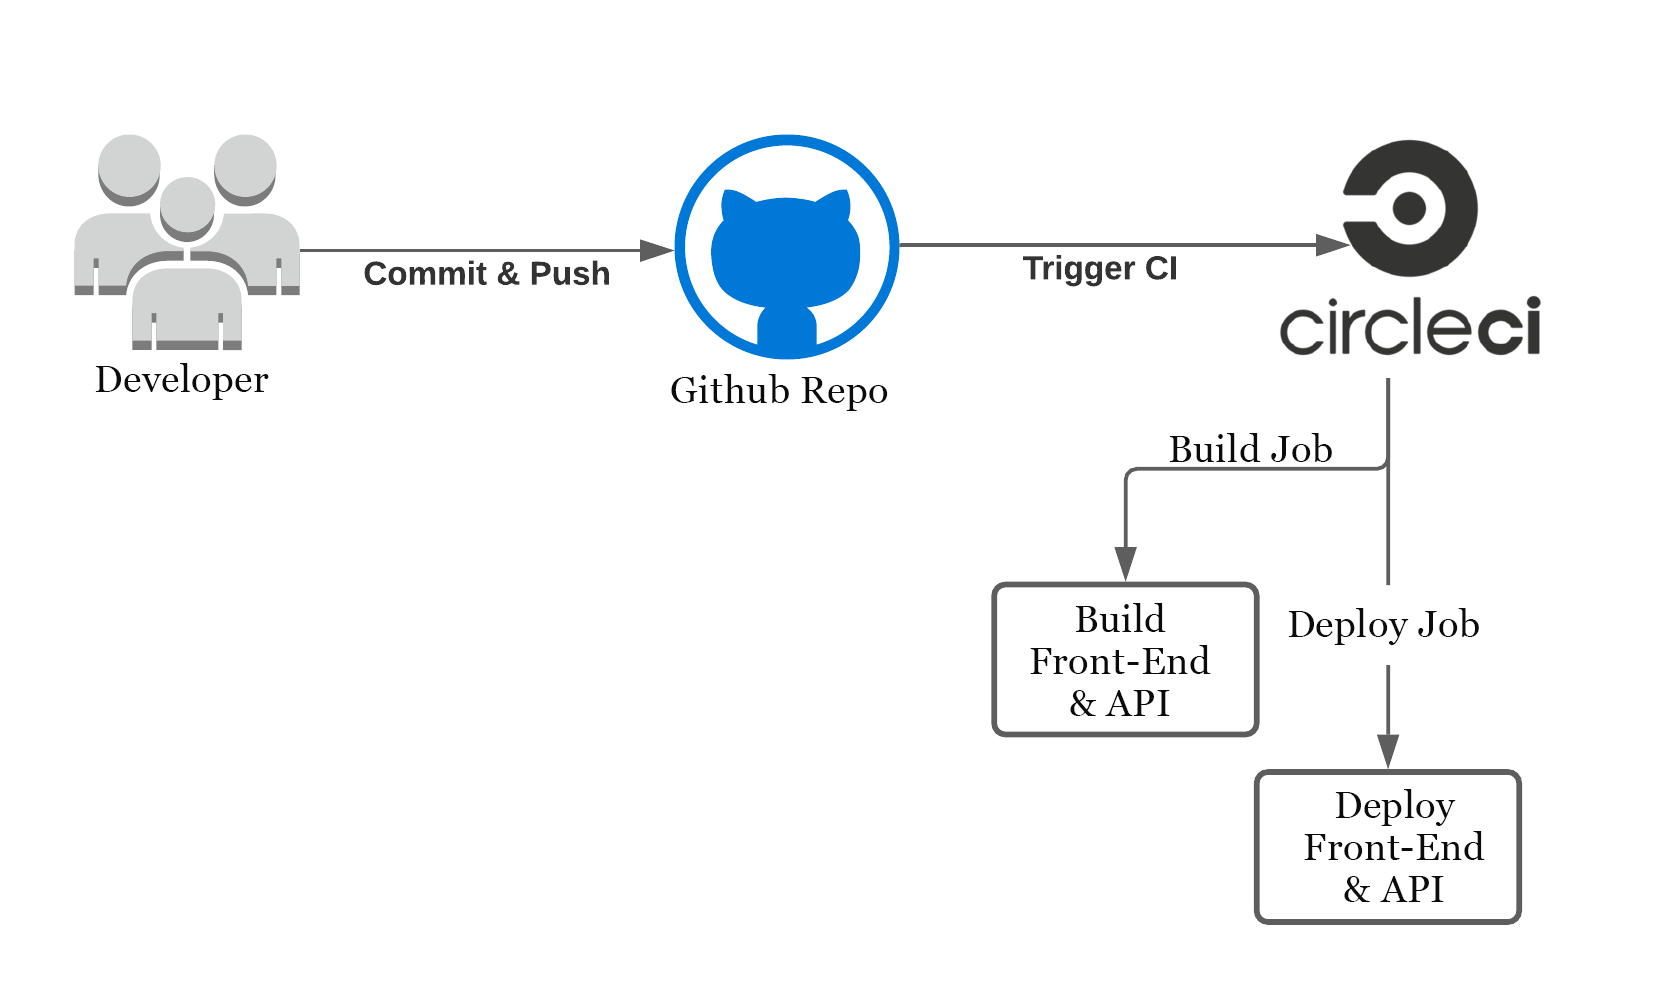
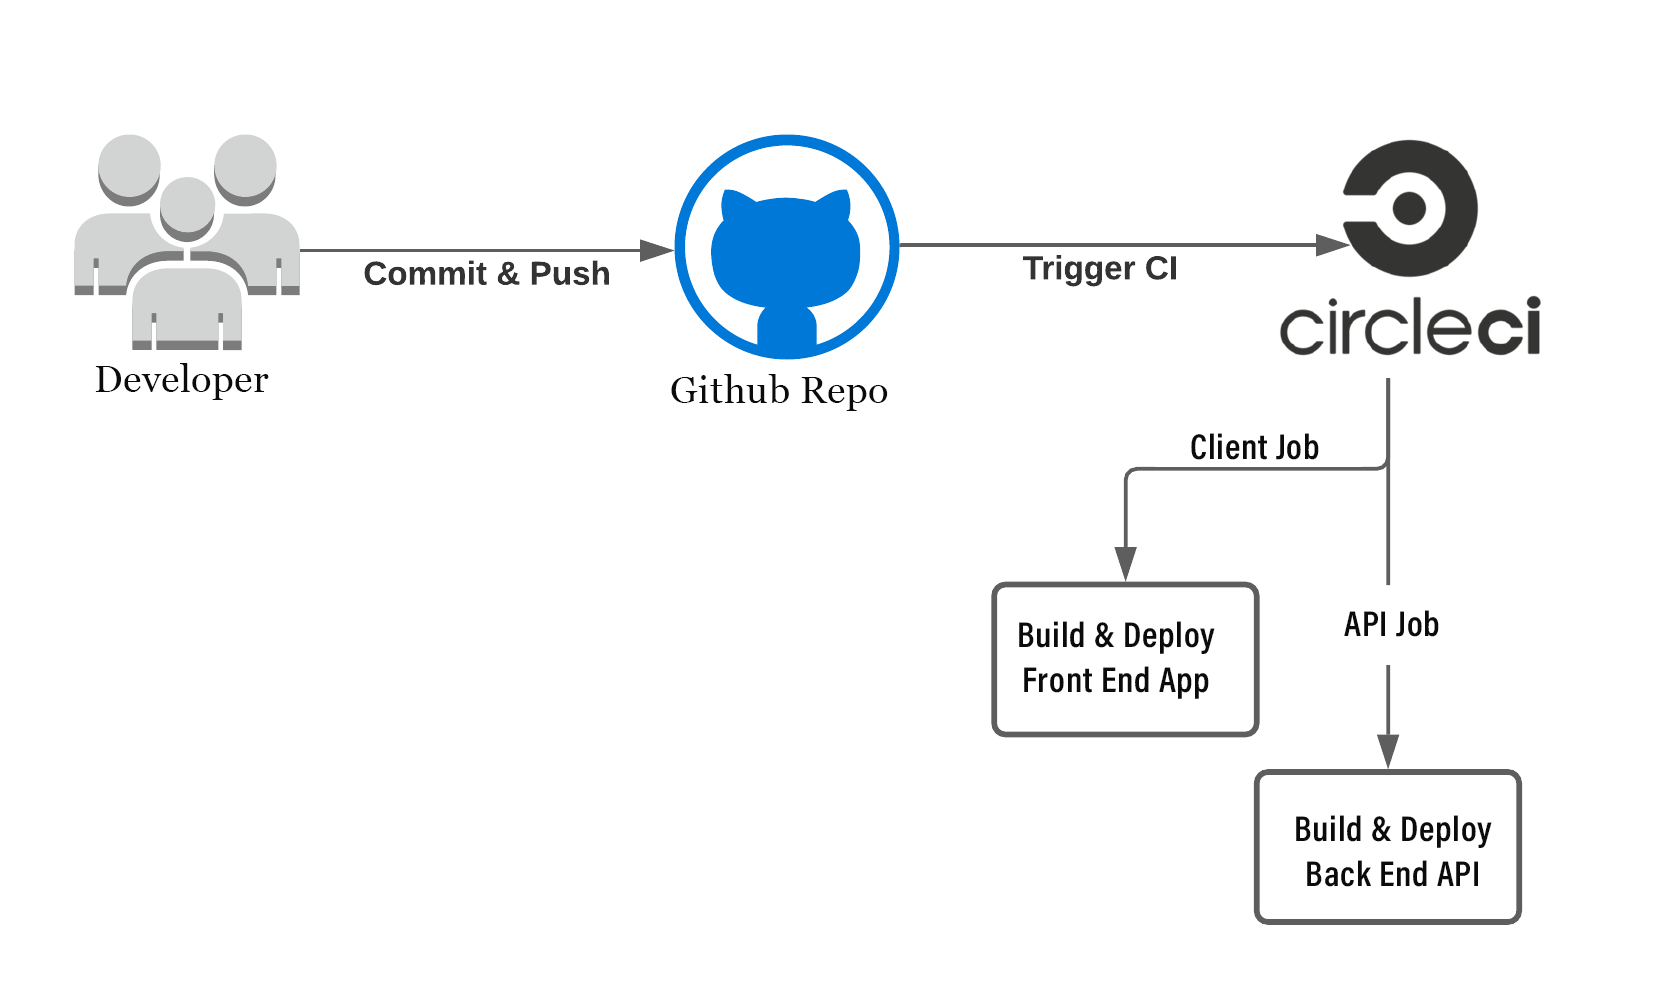
update docs & screenshots

diff --git a/docs/pipeline.md b/docs/pipeline.md
@@ -9,6 +9,6 @@ GitHub triggers the CircleCI platform when code is pushed to the repository.
 
 #### CircleCI
 CircleCI reads the `.circleci/config.yml` file which tells the service what has to be done. In the case of Storefront,
-there are 2 jobs (Build & Deploy) to be run by CircleCI.
-- **Build**: Runs the `install:client` and `install:server` to install dependencies, then it runs `build:client` and `build:server` scripts given in the `package.json` file.
-- **Deploy**: Runs the `deploy:client` script to use AWS CLI to upload front-end assets to S3. Then uses AWS CLI to upload API archive to S3. 
+there are 2 jobs (Client & API) to be run by CircleCI.
+- **Client**: Checkouts the code from repo, Then runs the `install:client` script to install dependencies, then it runs `build:client` script given in the `package.json` file to build the front-end client app, Then it runs `deploy:client` script to use AWS CLI to upload front-end assets to S3..
+- **API**: Checkouts the code from repo, Then runs the `install:server` & `build:server` scripts to install & build API code, Then uses AWS CLI to upload API archive to S3 and deploy to Elasticbeanstalk. 
